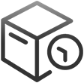
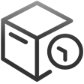
修改个人中心icon

diff --git a/pages/commodity/commodity.js b/pages/commodity/commodity.js
@@ -1,0 +1,66 @@
+// pages/commodity/commodity.js
+Page({
+
+  /**
+   * 页面的初始数据
+   */
+  data: {
+
+  },
+
+  /**
+   * 生命周期函数--监听页面加载
+   */
+  onLoad: function (options) {
+
+  },
+
+  /**
+   * 生命周期函数--监听页面初次渲染完成
+   */
+  onReady: function () {
+
+  },
+
+  /**
+   * 生命周期函数--监听页面显示
+   */
+  onShow: function () {
+
+  },
+
+  /**
+   * 生命周期函数--监听页面隐藏
+   */
+  onHide: function () {
+
+  },
+
+  /**
+   * 生命周期函数--监听页面卸载
+   */
+  onUnload: function () {
+
+  },
+
+  /**
+   * 页面相关事件处理函数--监听用户下拉动作
+   */
+  onPullDownRefresh: function () {
+
+  },
+
+  /**
+   * 页面上拉触底事件的处理函数
+   */
+  onReachBottom: function () {
+
+  },
+
+  /**
+   * 用户点击右上角分享
+   */
+  onShareAppMessage: function () {
+
+  }
+})

diff --git a/pages/ordercenter/ordercenter.js b/pages/ordercenter/ordercenter.js
@@ -87,15 +87,14 @@ Page({
         payType: '微信',
         label: "自营",
         freight: 5.00,
+        status: 4,
         productList: [{
           id: '5',
           picUrl: 'https://yanxuan.nosdn.127.net/69a890ff1cfe400c4e2fdaee7d9e598a.png',
           title: '自动喷香机',
           specDesc: '主机+4罐芳香喷雾罐',
-          status: 4,
           count: 1,
           price: 99.00,
-          label: "自营"
         }],
         totalPrice: 99.00,
         expressPrice: 0.00,

diff --git a/pages/mine/mine.js b/pages/mine/mine.js
@@ -267,5 +267,13 @@ Page({
         url: '/pages/auth/tologin/tologin',
       })
     }
+  },
+  toOrder: function (e) {
+    this.toLogin();
+    let type = e.currentTarget.id;
+    console.log(type)
+    wx.navigateTo({
+      url: '/pages/ordercenter/ordercenter?type=' + type,
+    })
   }
 })
